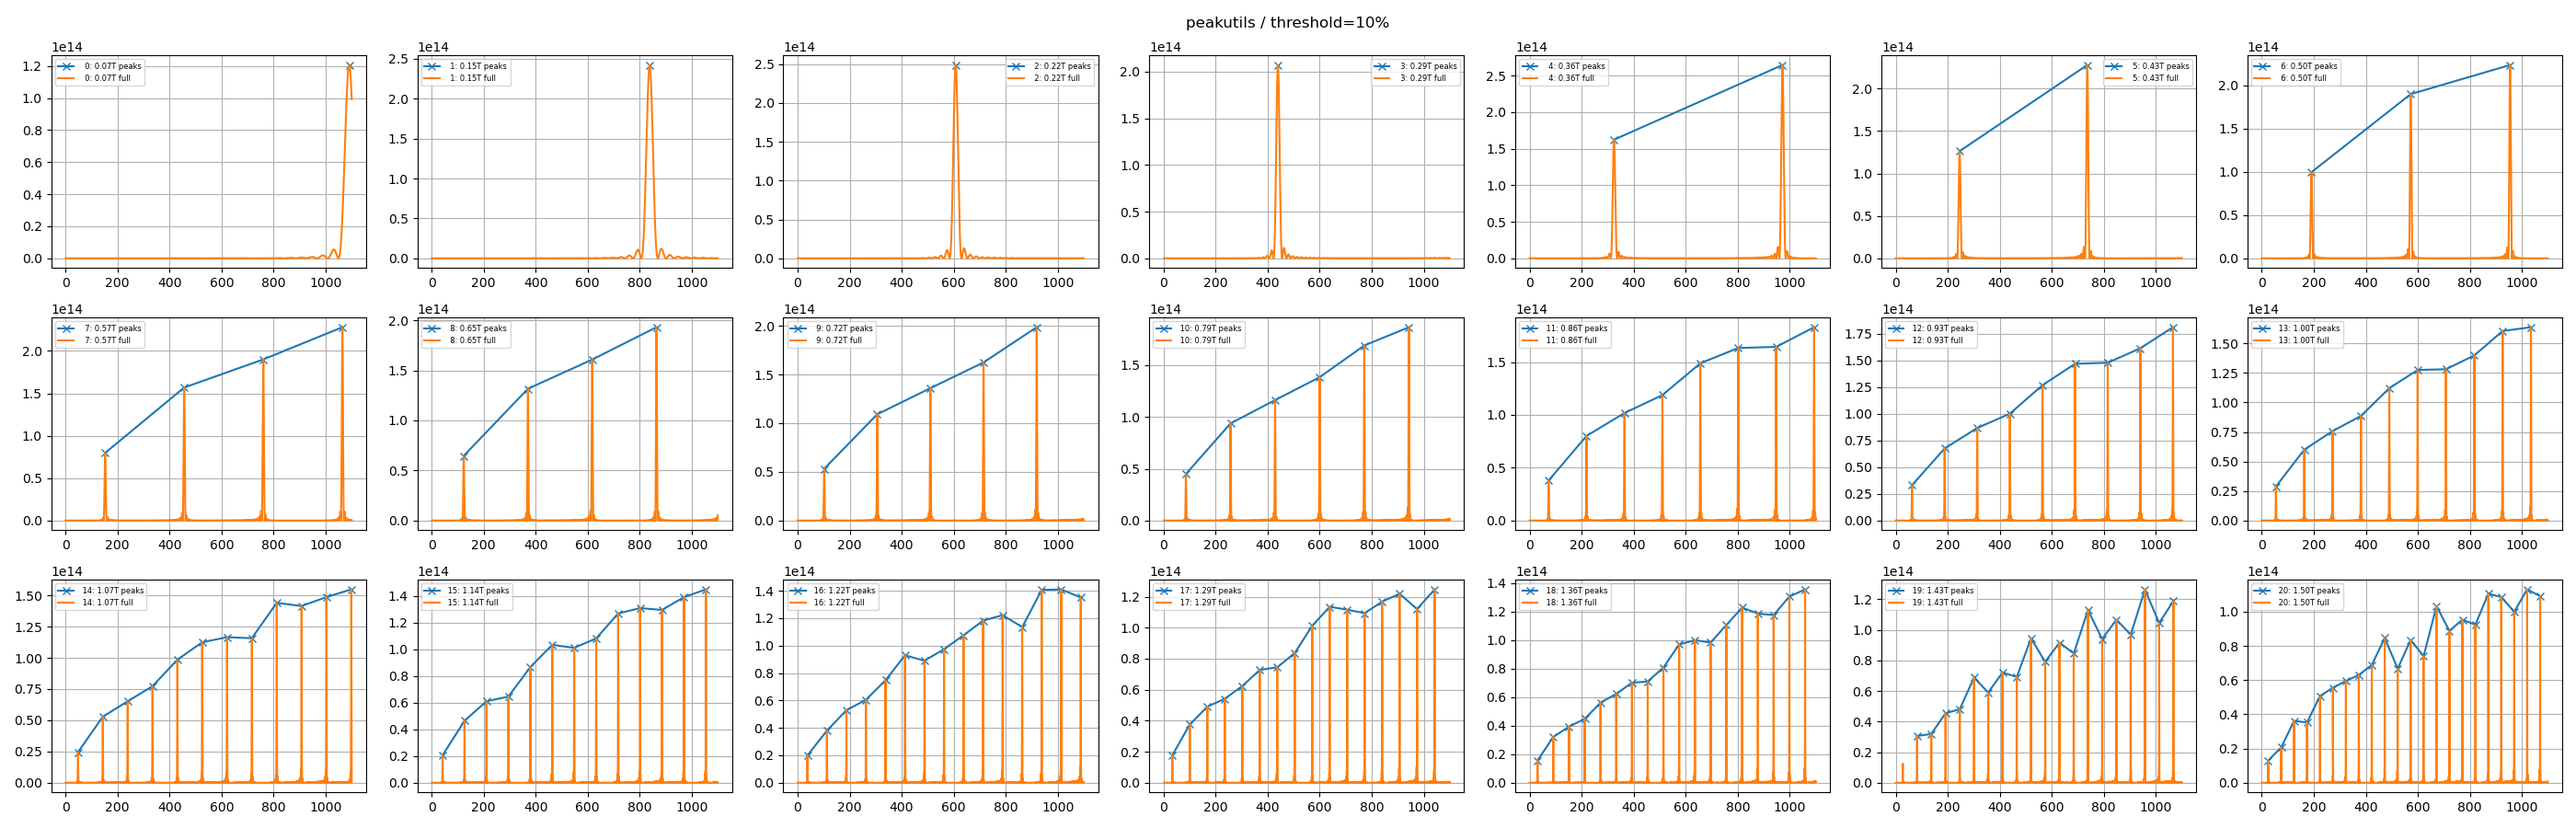
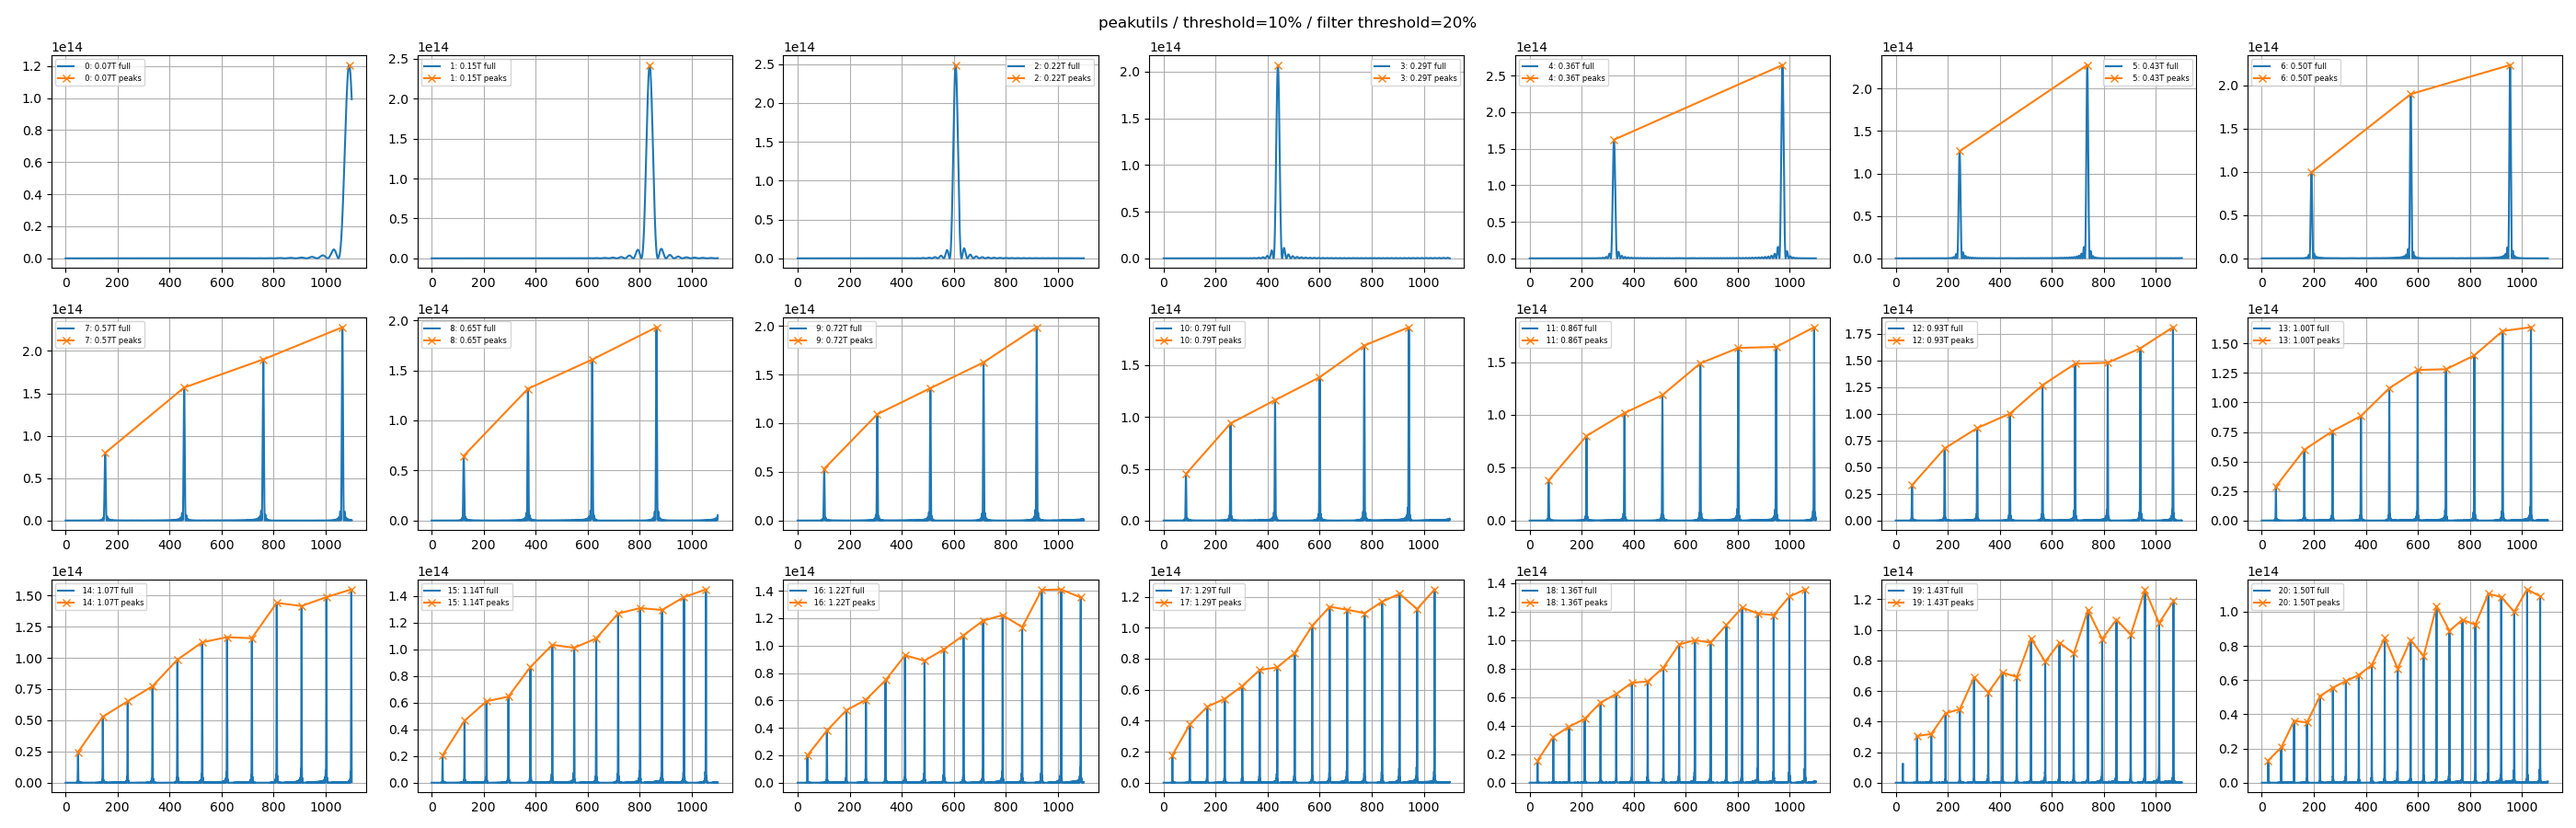
DOC: update the images to display threshold of 5%, 7%, and 10%

diff --git a/startup/30-utils.py b/startup/30-utils.py
@@ -62,7 +62,7 @@ def plot_all_peaks(df, method="scipy", thres=0.10, filter_thres=0.2,
     mag_fields = np.array(list(df["undulator_verticalAmplitude"]))
 
     fig, axes = plt.subplots(ncols=ncols, nrows=nrows, figsize=(ncols * 4, nrows * 3))
-    fig.suptitle(f"{method} / threshold={thres * 100:.0f}%")
+    fig.suptitle(f"{method} / threshold={thres * 100:.0f}% / filter threshold={filter_thres * 100:.0f}%")
 
     all_energies = {}
 

diff --git a/README.md b/README.md
@@ -121,20 +121,26 @@ lookup_harm3.to_csv("data/harmonic3.csv")
 ### Get peaks for all spectra
 
 ```python
-plot_all_peaks(df, method="peakutils", thres=0.07)
-plot_all_peaks(df, method="peakutils", thres=0.10)
-plot_all_peaks(df, method="peakutils", thres=0.20)
+plot_all_peaks(df, method="peakutils", thres=0.05, filter_thres=0.20)
+plot_all_peaks(df, method="peakutils", thres=0.07, filter_thres=0.20)
+plot_all_peaks(df, method="peakutils", thres=0.10, filter_thres=0.20)
 
-plot_all_peaks(df, method="scipy", thres=0.07)
-plot_all_peaks(df, method="scipy", thres=0.10)
-plot_all_peaks(df, method="scipy", thres=0.20)
+plot_all_peaks(df, method="scipy", thres=0.05, filter_thres=0.20)
+plot_all_peaks(df, method="scipy", thres=0.07, filter_thres=0.20)
+plot_all_peaks(df, method="scipy", thres=0.10, filter_thres=0.20)
 ```
+
+### Threshold 5%
+
+![peakutils-0.05.png](images/peakutils-0.05.png)
+![scipy-0.05.png](images/scipy-0.05.png)
+
+### Threshold 7%
 
 ![peakutils-0.07.png](images/peakutils-0.07.png)
 ![scipy-0.07.png](images/scipy-0.07.png)
 
+### Threshold 10%
+
 ![peakutils-0.10.png](images/peakutils-0.10.png)
 ![scipy-0.10.png](images/scipy-0.10.png)
-
-![peakutils-0.20.png](images/peakutils-0.20.png)
-![scipy-0.20.png](images/scipy-0.20.png)
